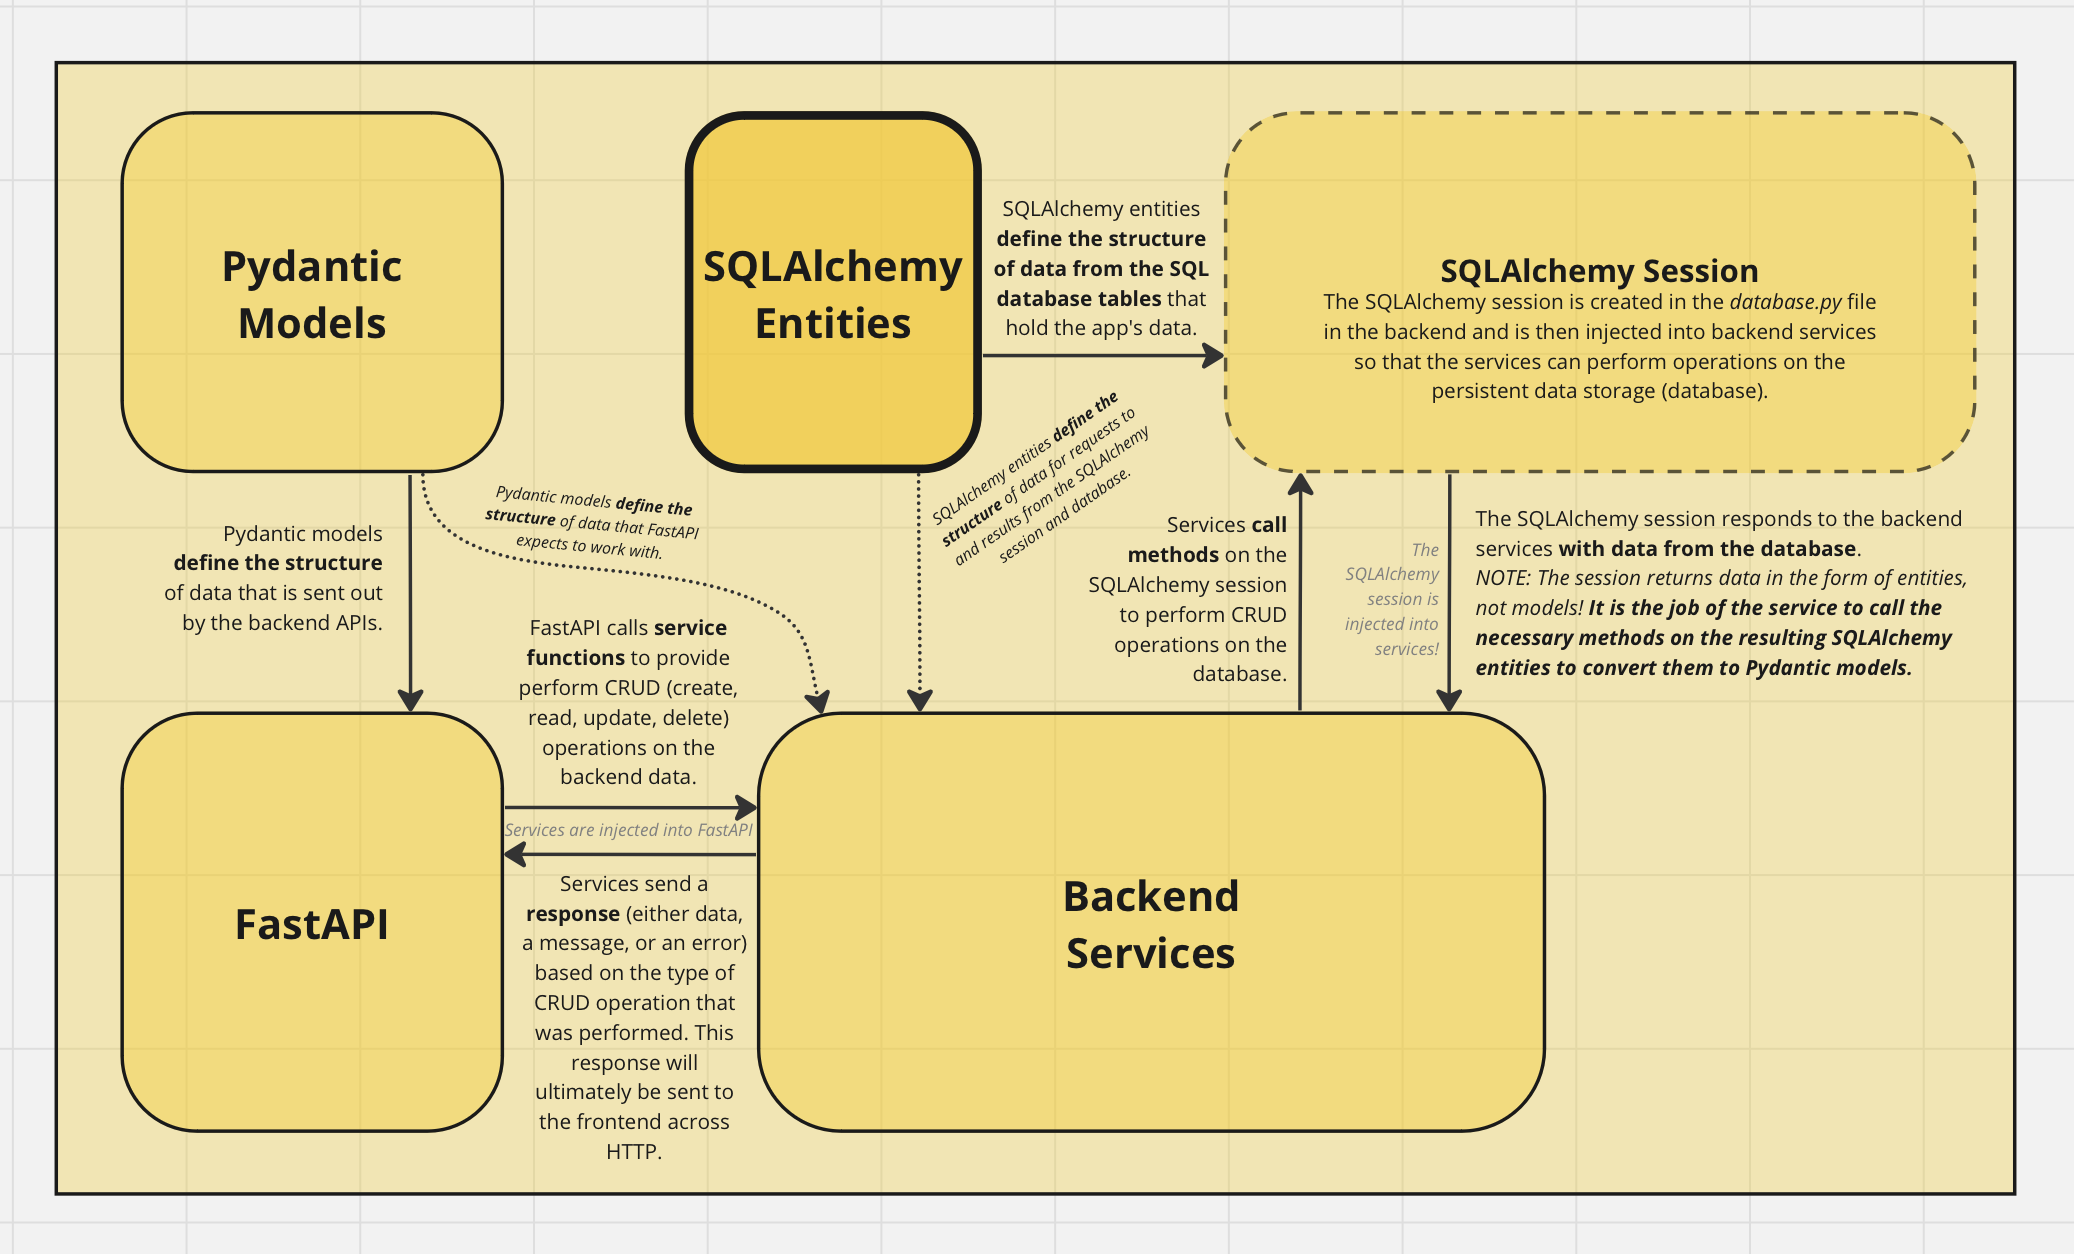
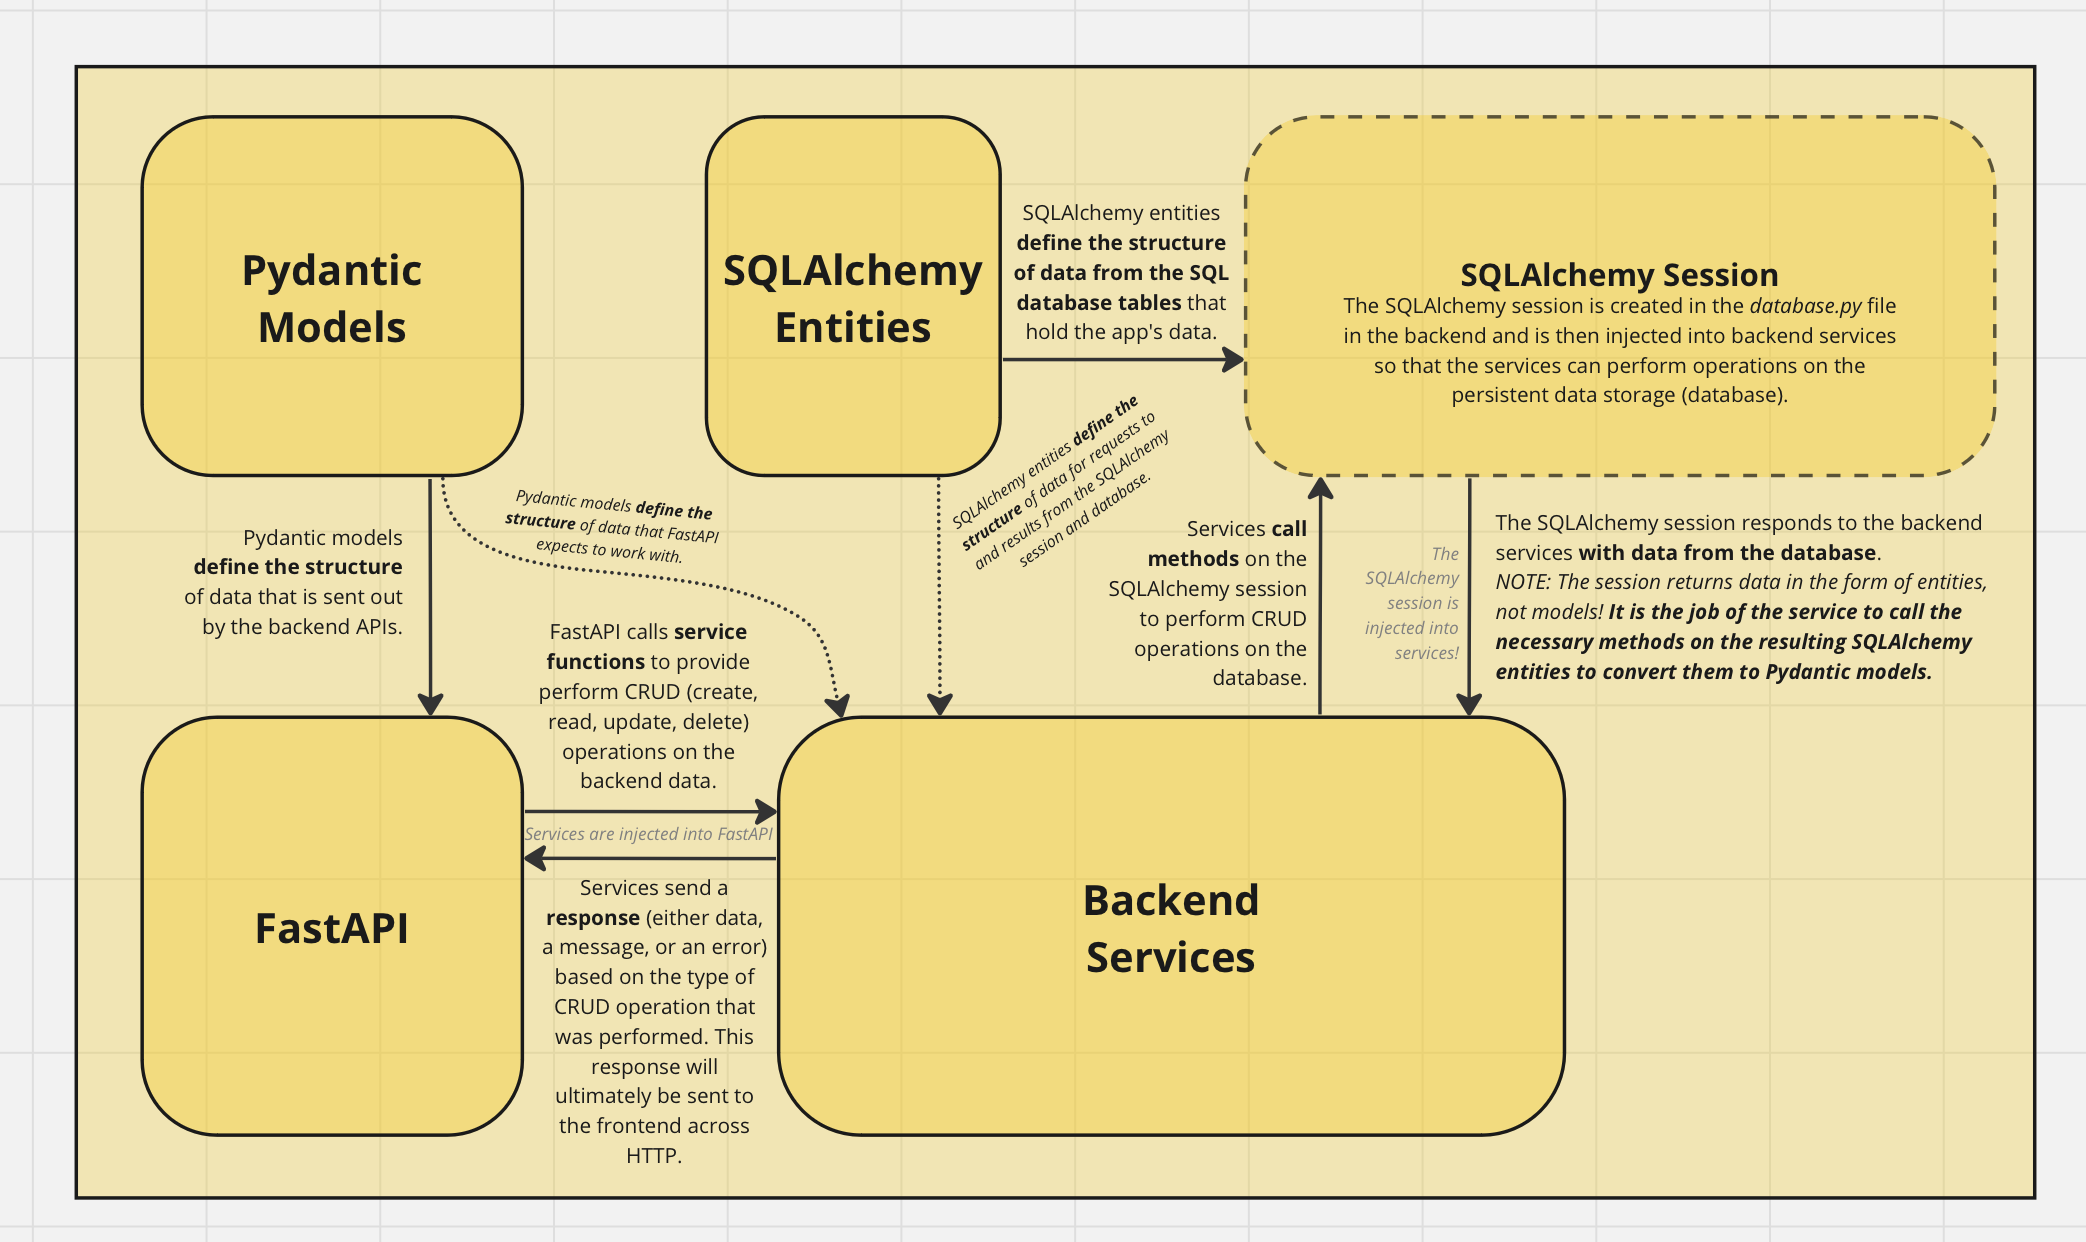
Add More Entity Diagrams

Changed region(s): [[0.0, 0.0306, 0.9875, 0.9791], [0.4937, 0.7037, 0.6172, 0.7955]]

diff --git a/docs/sqlalchemy/2_entities.md b/docs/sqlalchemy/2_entities.md
@@ -16,7 +16,7 @@ We call these structures **_SQLAlchemy Entities_**.
 
 Entities fit into our overall stack flowchart like so:
 
-![Stack flowchart zoomed in on the entities](https://github.com/unc-csxl/csxl.unc.edu/blob/docs/querying/docs/images/sqlalchemy/entities.png)
+![Stack flowchart zoomed in on the entities](https://github.com/unc-csxl/csxl.unc.edu/blob/docs/querying/docs/images/sqlalchemy/entities_only.png)
 
 ## Creating Entities
 
@@ -138,7 +138,7 @@ This difference is actually quite notable! There are cases where what data the A
 
 Let's take a look at the interactions again using the flowchart:
 
-![Compare Pydantic models from the SQLAlchemy entities]()
+![Compare Pydantic models from the SQLAlchemy entities](https://github.com/unc-csxl/csxl.unc.edu/blob/docs/querying/docs/images/sqlalchemy/entities.png)
 
 FastAPI only works with Pydantic models, and the SQLAlchemy session only works with Entities. Because of this, we will need to **convert\*** SQLAlchemy entitites to Pydantic models and vice-versa. As you can see in the flowchart, the service sits in the middle of FastAPI and the session. Therefore, **_it is the job of the service to make these conversions!_**
 
